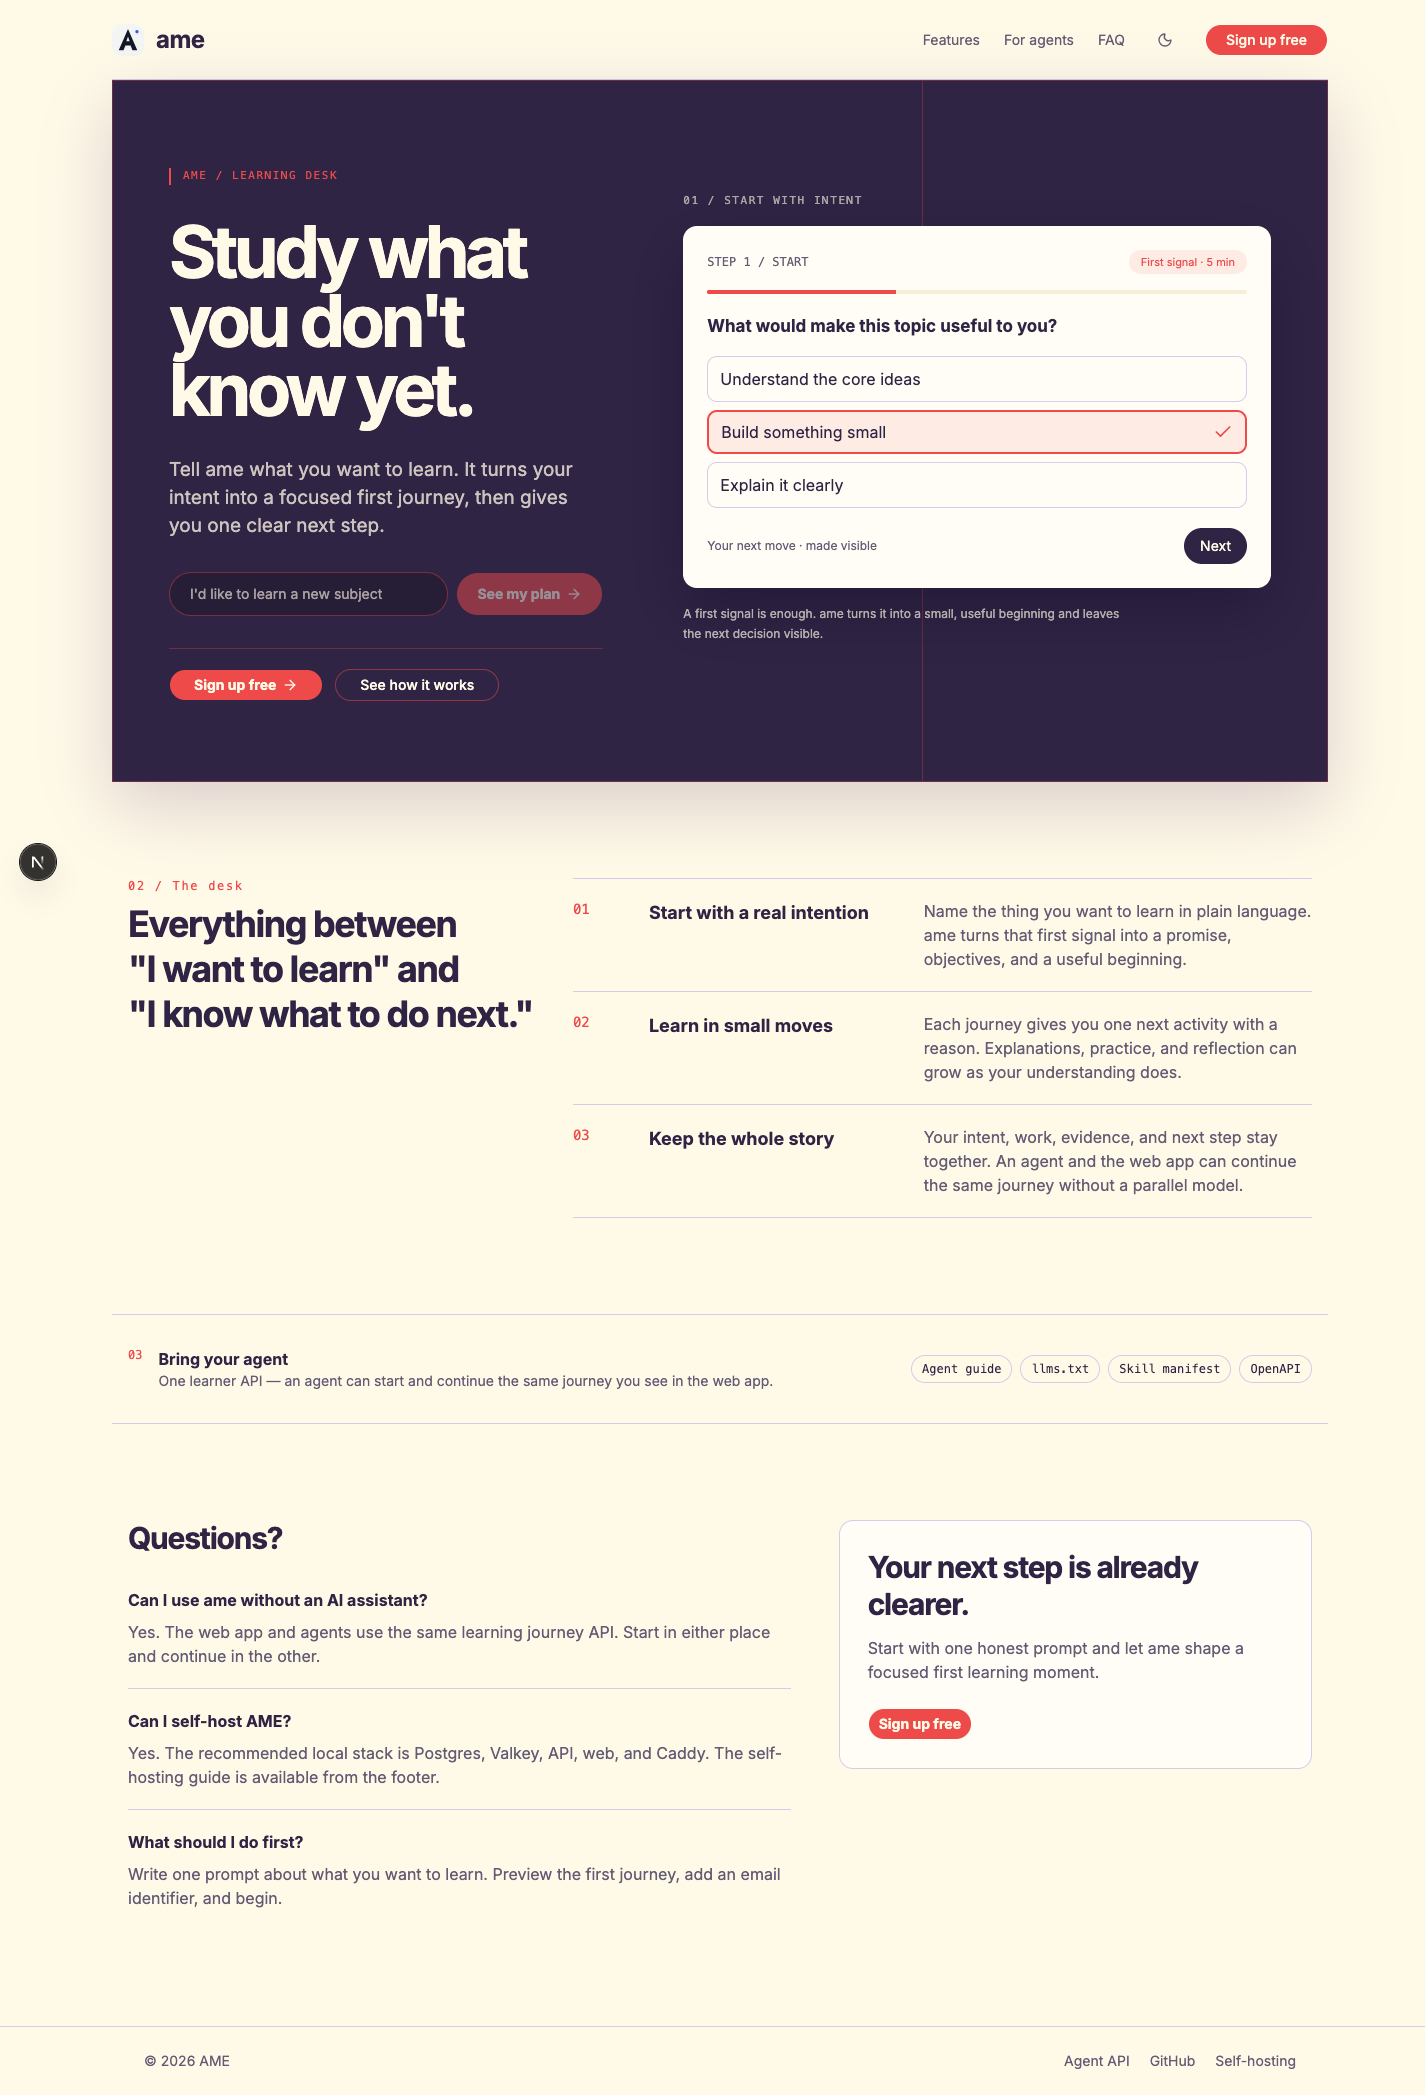
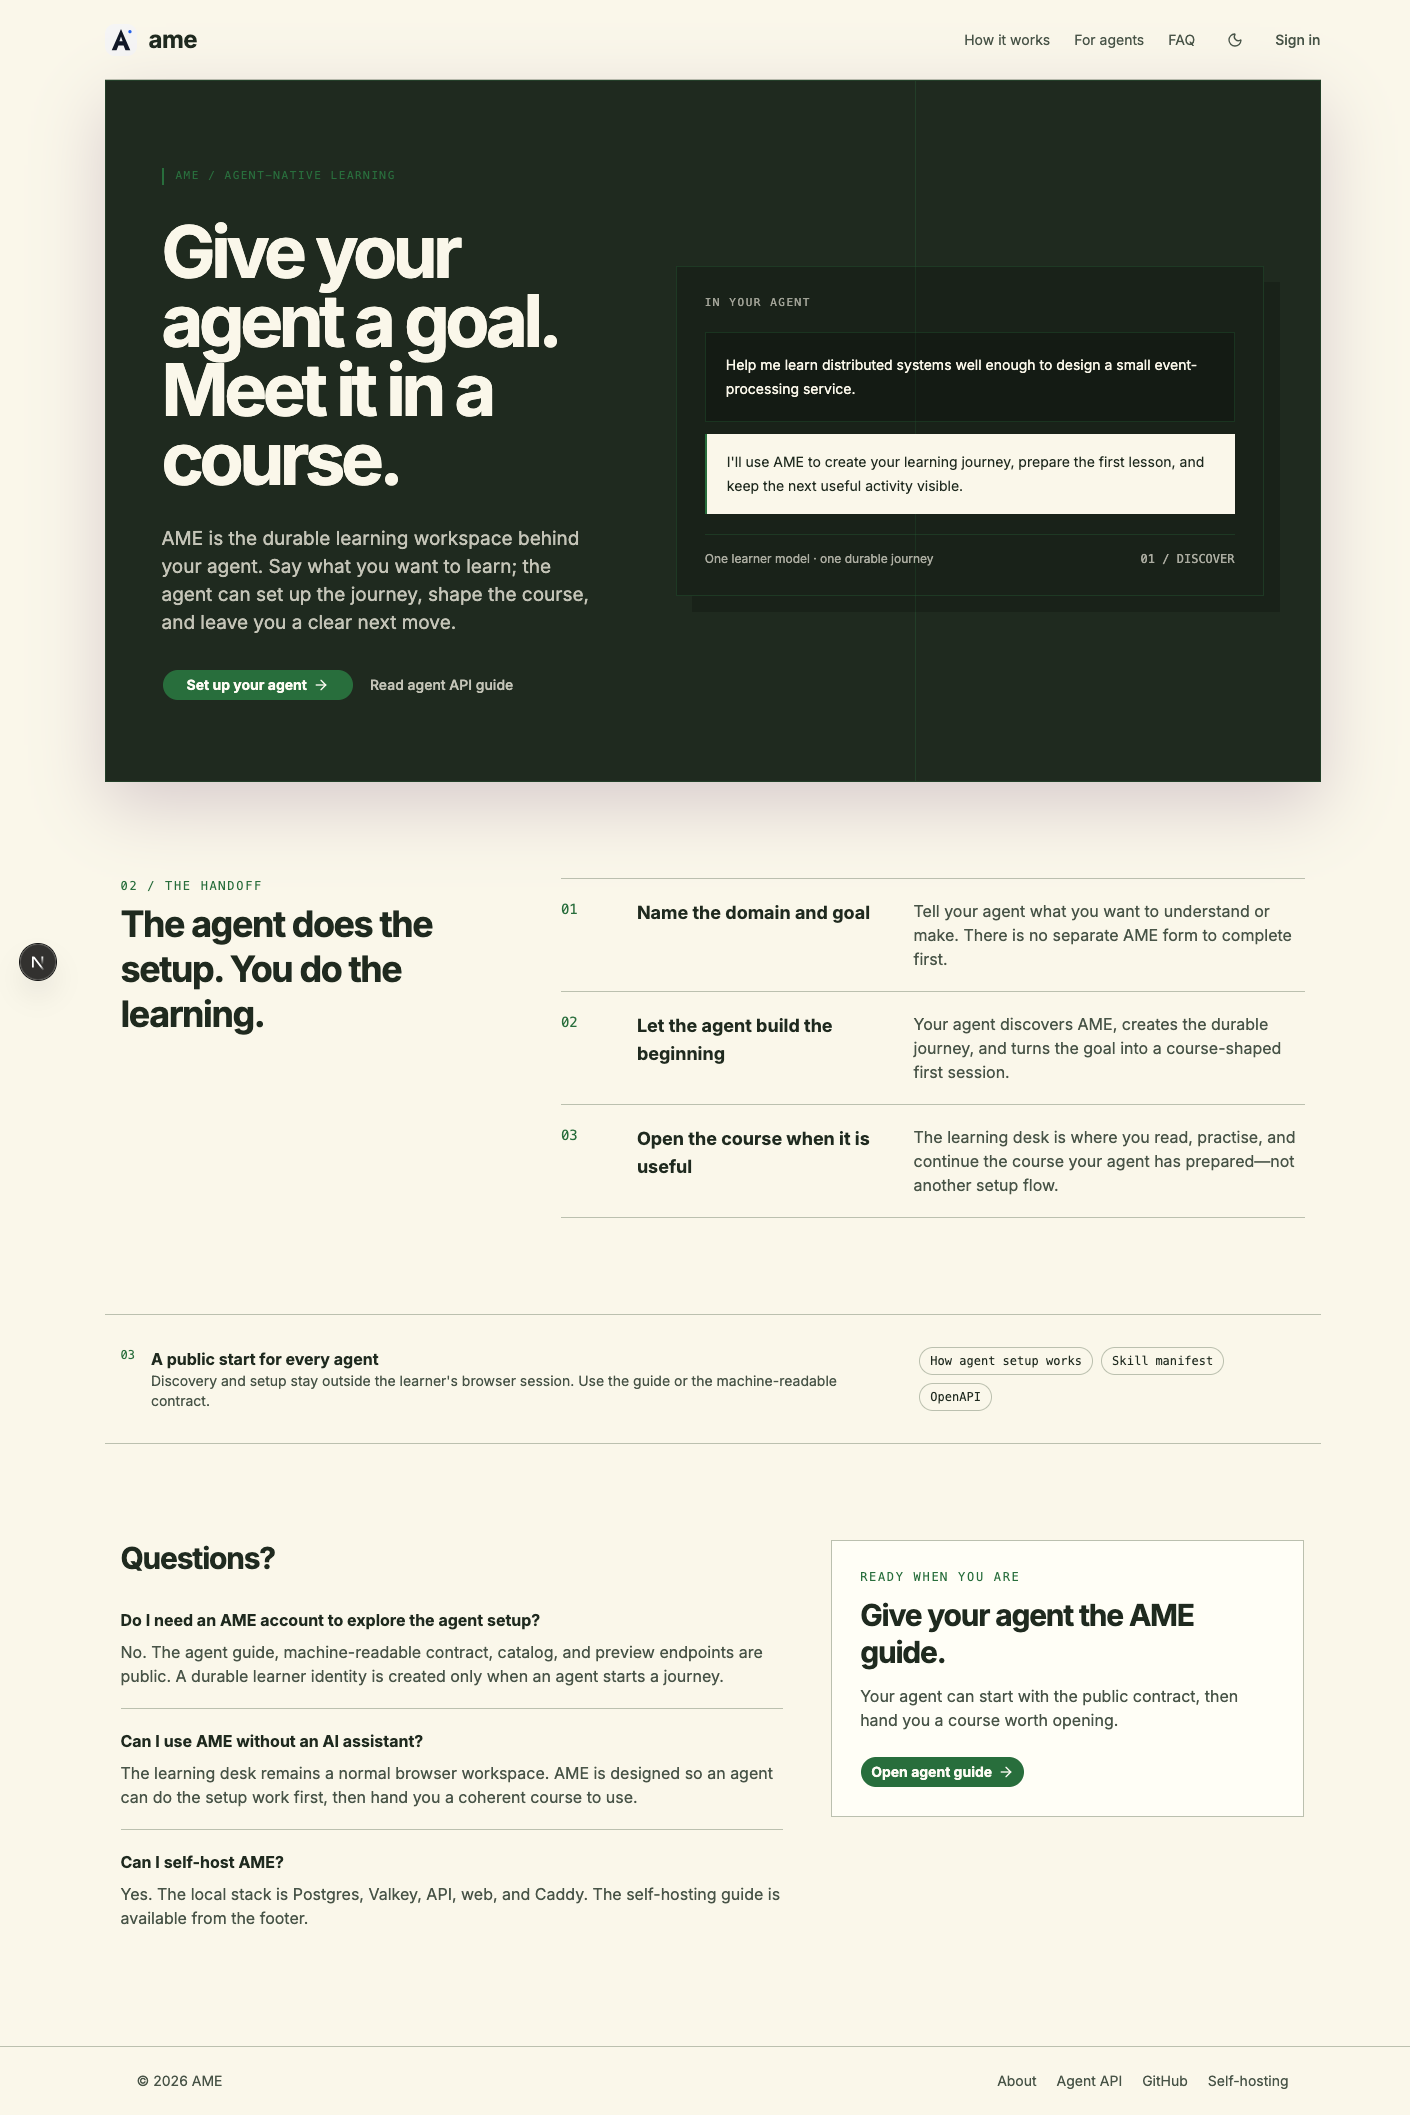
docs: refresh README screenshots to match the current UI
The existing screenshots were from a pre-rework MUI-era sidebar layout
and old landing copy -- completely stale next to the current AppShell
top-nav, agent-native landing page, and per-course Learn/Progress tabs.
Recaptured all three against the live stack (haru's Netty course) and
reworded the two detail captions to describe what's actually shown
(the old "retention analytics" page doesn't exist anymore; progress is
now a per-course tab with evidence-backed outcomes).

diff --git a/README.md b/README.md
@@ -9,11 +9,11 @@ Agent-friendly learning platform with one owner-scoped journey API. Rust (Axum) 
 ![Landing page](docs/assets/screenshots/landing.png)
 
 <details>
-<summary>More screenshots — active session, learner analytics</summary>
+<summary>More screenshots — active session, course progress</summary>
 
-![Active learning session with private notes and alternate-angle variants](docs/assets/screenshots/learning-desk.png)
+![Active learning session with a practice assessment, private notes, and alternate-angle variants](docs/assets/screenshots/learning-desk.png)
 
-![Learning desk with course progress and retention analytics](docs/assets/screenshots/analytics.png)
+![Course progress tab with evidence-backed outcomes, attempts, and due reviews](docs/assets/screenshots/analytics.png)
 
 </details>
 
